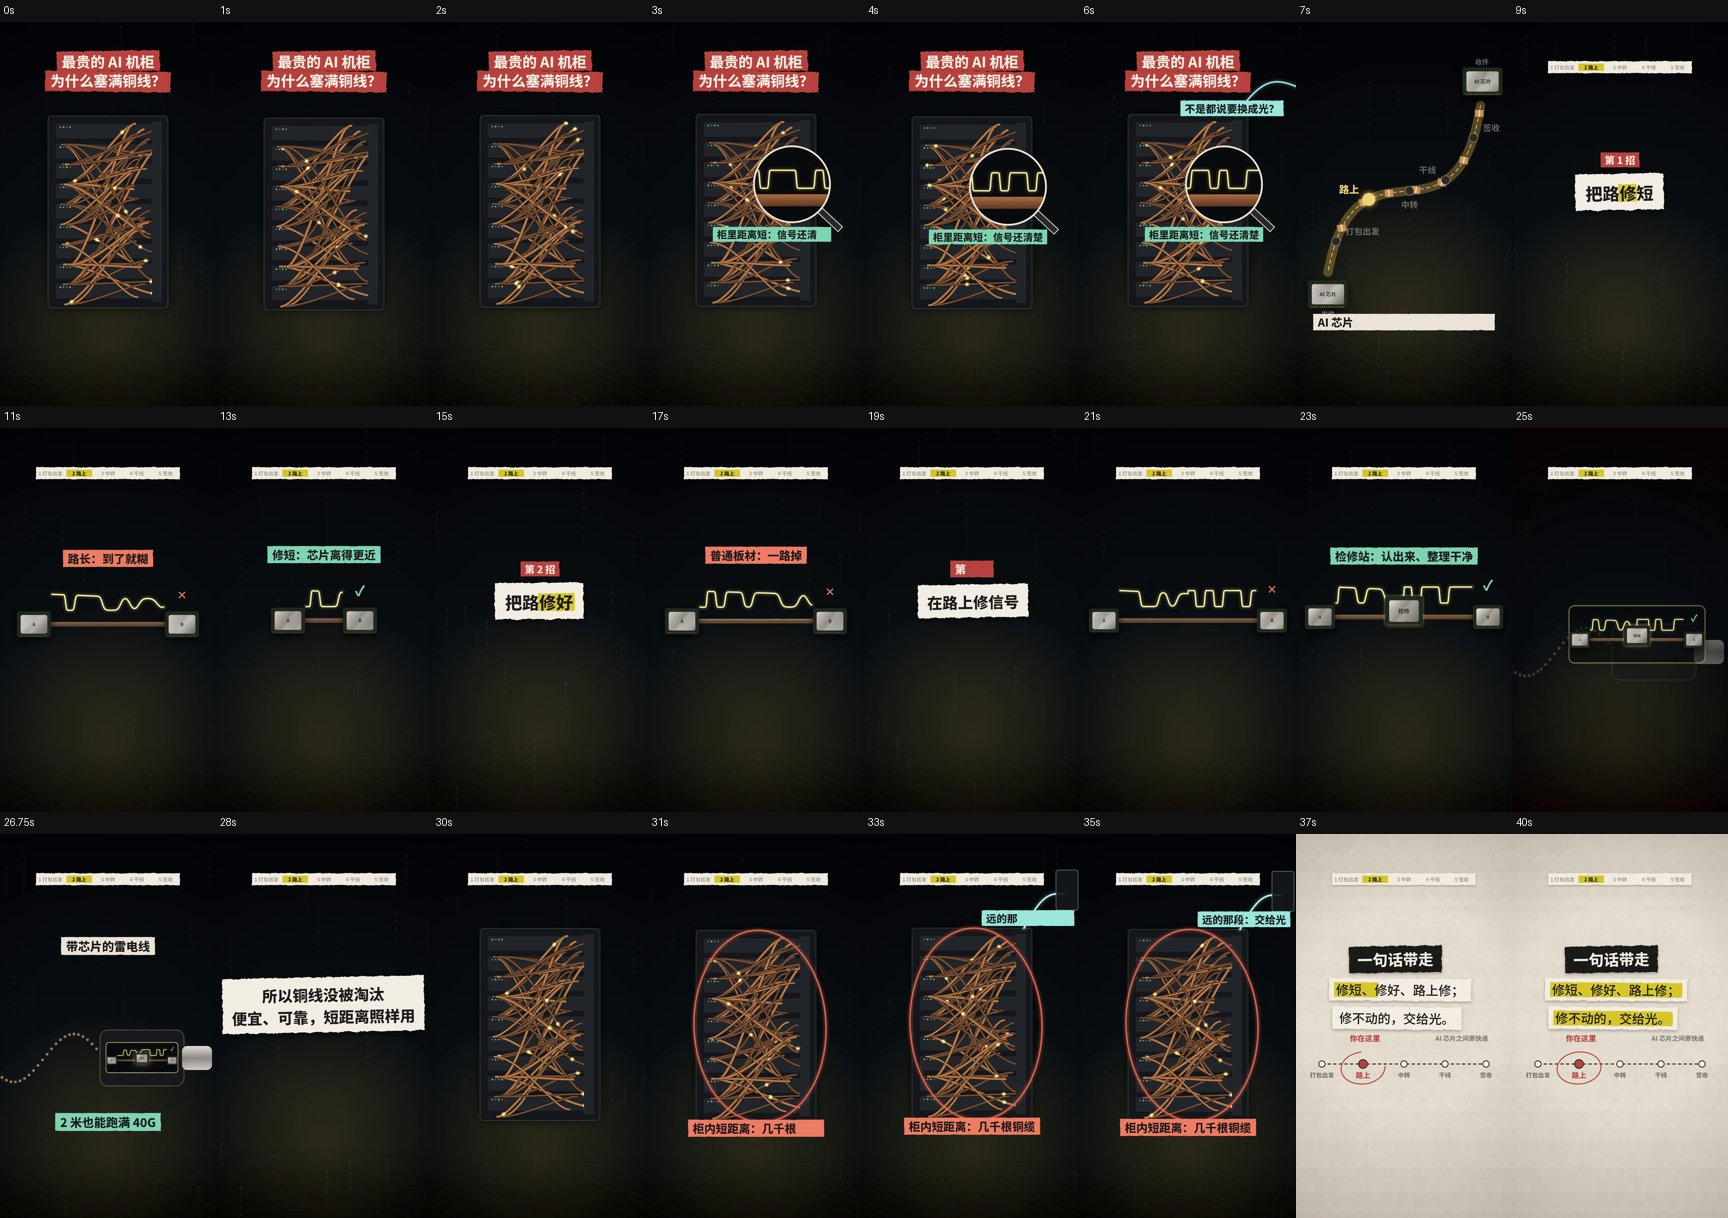
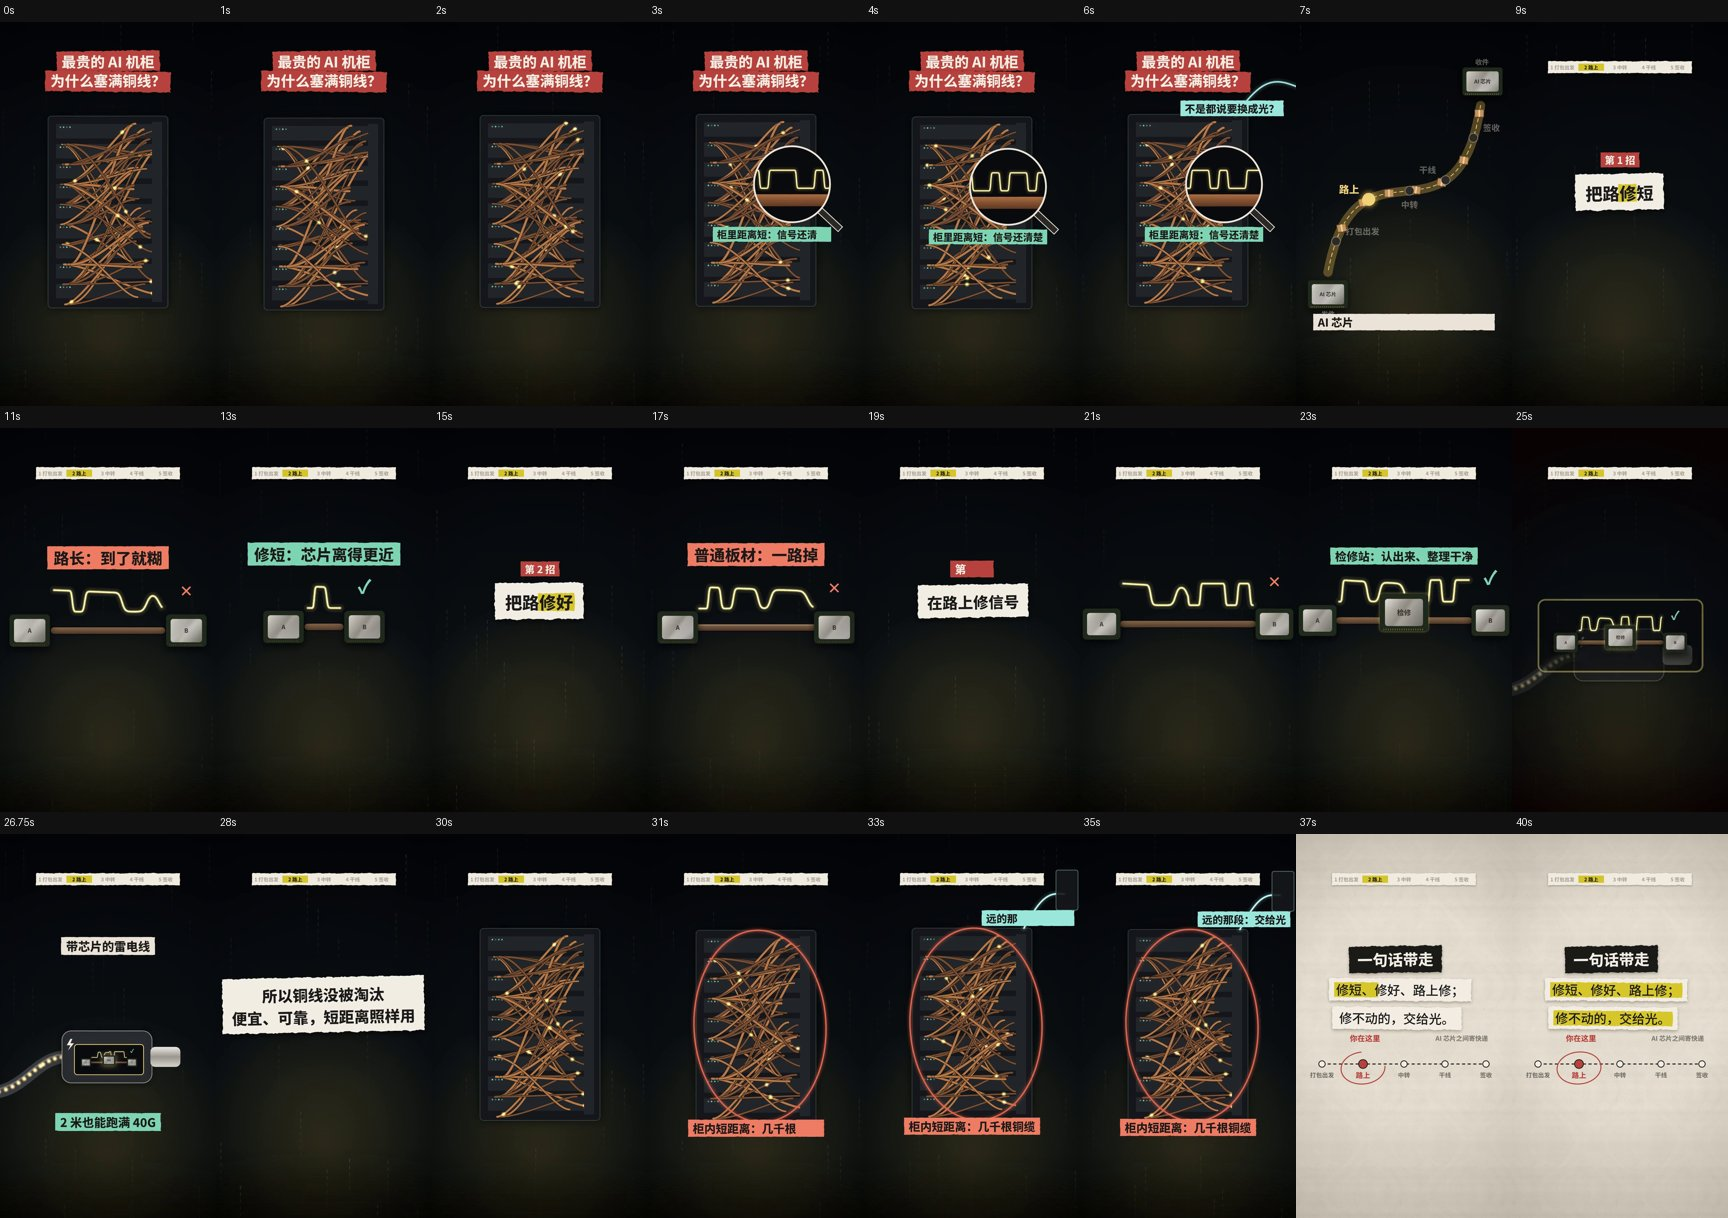
光互连03 抖音无旁白第 2 条：演示放大、插头揭晓重画
Claude-Session: https://claude.ai/code/session_017cWy2C9x8as99QvCXXTnLk

diff --git a/episodes/guanghulian/03-copper-blur/抖音版/代码工程/split/g2.js b/episodes/guanghulian/03-copper-blur/抖音版/代码工程/split/g2.js
@@ -60,42 +60,46 @@ const road = (c, t, xa, xb, y, { loss = 1, mat = 0, at = 0, mid = null } = {}) =
     am = x => { if (mid != null && x > mid) return 1; return 1 - 0.45 * loss * clamp((x - xa) / 900); };
   G.wave(c, xa, xb, x => y - 80 * am(x) * G.level(x, F, 46, sg(x)), { col: GOLD, lw: 6 });
   return sg(xb) < 10; };
-const scene = (c, t, sh, draw) => { const k = T.cam({ hy: 1600, camH: 300 }); T.bg(c, k, { grid: 0.45, scroll: t * 140 }); T.streams(c, t, { a: 0.08, seed: 29 }); c.save(); c.translate(0, G.floatY(t, 2)); draw(); c.restore(); };
+const ZOOM = 1.35;   // 演示放大一点，手机上看得清
+const scene = (c, t, sh, draw) => { const k = T.cam({ hy: 1600, camH: 300 }); T.bg(c, k, { grid: 0.45, scroll: t * 140 }); T.streams(c, t, { a: 0.08, seed: 29 }); c.save(); c.translate(540, 880 + G.floatY(t, 2)); c.scale(ZOOM, ZOOM); c.translate(-540, -880); draw(); c.restore(); };
 // ① 修短：两颗芯片隔得远 → 滑到一起
 SP.MECH.short = (c, t, sh) => scene(c, t, sh, () => {
-  const s = ease(t, C.slide, C.slide + 0.8, 'c'), xa = lerp(170, 360, s), xb = lerp(910, 720, s), y = 900;
+  const s = ease(t, C.slide, C.slide + 0.8, 'c'), xa = lerp(250, 390, s), xb = lerp(830, 690, s), y = 900;
   const ok = road(c, t, xa + 90, xb - 90, y, { loss: 1, at: sh.t0 });
-  T.chip(c, xa, y + 70, 170, 130, { label: 'A', t }); T.chip(c, xb, y + 70, 170, 130, { label: 'B', t: t + 0.4 });
+  T.chip(c, xa, y + 70, 150, 120, { label: 'A', t }); T.chip(c, xb, y + 70, 150, 120, { label: 'B', t: t + 0.4 });
   G.mark(c, ok, xb, y - 80, 70);
-  tag(c, s < 0.5 ? '路长：到了就糊' : '修短：芯片离得更近', 540, 640, { size: 46, bg: s < 0.5 ? COL.coral : COL.mint, fg: COL.ink, t, at: s < 0.5 ? sh.t0 : C.slide });
+  tag(c, s < 0.5 ? '路长：到了就糊' : '修短：芯片离得更近', 540, 700, { size: 46, bg: s < 0.5 ? COL.coral : COL.mint, fg: COL.ink, t, at: s < 0.5 ? sh.t0 : C.slide });
 });
 // ② 修好：同一条路，换成损耗更低的材料
 SP.MECH.better = (c, t, sh) => scene(c, t, sh, () => {
   const m = ease(t, C.swap, C.swap + 0.6), y = 900;
-  const ok = road(c, t, 260, 820, y, { loss: lerp(1, 0.18, m), mat: m, at: sh.t0 });
-  T.chip(c, 170, y + 70, 170, 130, { label: 'A', t }); T.chip(c, 910, y + 70, 170, 130, { label: 'B', t: t + 0.4 });
-  G.mark(c, ok, 910, y - 80, 70);
-  tag(c, m < 0.5 ? '普通板材：一路掉' : '损耗更低的板材、铜缆', 540, 640, { size: 46, bg: m < 0.5 ? COL.coral : COL.mint, fg: COL.ink, t, at: m < 0.5 ? sh.t0 : C.swap });
+  const ok = road(c, t, 330, 750, y, { loss: lerp(1.3, 0.2, m), mat: m, at: sh.t0 });
+  T.chip(c, 250, y + 70, 150, 120, { label: 'A', t }); T.chip(c, 830, y + 70, 150, 120, { label: 'B', t: t + 0.4 });
+  G.mark(c, ok, 830, y - 80, 70);
+  tag(c, m < 0.5 ? '普通板材：一路掉' : '损耗更低的板材、铜缆', 540, 700, { size: 46, bg: m < 0.5 ? COL.coral : COL.mint, fg: COL.ink, t, at: m < 0.5 ? sh.t0 : C.swap });
 });
 // ③ 路上修信号：中途立一个「检修」芯片；镜头拉远——它原来在一根雷电线的插头里（高潮，子弹时间）
 SP.MECH.repair = (c, t, sh) => {
   const z = ease(t, C.reveal, C.reveal + 1.0, 'c'), bt = C.reveal != null && t > C.reveal - 0.5 && t < C.reveal + 1.2 ? Math.min(seg(t, C.reveal - 0.5, C.reveal - 0.25), 1 - seg(t, C.reveal + 0.9, C.reveal + 1.2)) : 0;
   const k = T.cam({ hy: 1600, camH: 300 }); T.bg(c, k, { grid: 0.45, scroll: t * 140 }); T.streams(c, t, { a: 0.08, seed: 31 });
   const fy = G.floatY(t, 3);
-  // 拉远后的雷电线和插头（在下层，跟着放大缩小）
-  if (z > 0) { c.save(); c.globalAlpha = z; const P = []; for (let i = 0; i <= 80; i++) { const u = i / 80; P.push([lerp(-80, 520, u), 1120 + 120 * Math.sin(Math.PI * 2 * u)]); }
-    c.strokeStyle = '#141516'; c.lineWidth = 46; c.lineCap = 'round'; c.beginPath(); P.forEach((p, i) => i ? c.lineTo(p[0], p[1]) : c.moveTo(p[0], p[1])); c.stroke();
-    c.save(); c.globalCompositeOperation = 'lighter'; for (let d = 0; d < 80; d += 3) { const p = P[(Math.floor(d + t * 30)) % 80]; c.fillStyle = 'rgba(245,215,126,.5)'; c.beginPath(); c.arc(p[0], p[1], 7, 0, 7); c.fill(); } c.restore();
-    c.fillStyle = '#1a1b1c'; c.strokeStyle = 'rgba(236,230,218,.4)'; c.lineWidth = 3; c.beginPath(); c.roundRect(500, 980, 420, 280, 40); c.fill(); c.stroke();
-    const gg = c.createLinearGradient(0, 1060, 0, 1180); gg.addColorStop(0, '#e2dfd8'); gg.addColorStop(0.5, '#8d8a84'); gg.addColorStop(1, '#cfccc5'); c.fillStyle = gg; c.beginPath(); c.roundRect(910, 1060, 150, 120, 26); c.fill();
+  // 拉远后：一根雷电线从左边进来，插头在画面中间；检修站那条路缩进插头的窗口里
+  if (z > 0) { c.save(); c.globalAlpha = z; c.translate(0, fy);
+    c.save(); c.lineCap = 'round'; c.strokeStyle = '#3a3d40'; c.lineWidth = 64; c.beginPath(); c.moveTo(-60, 1300); c.bezierCurveTo(120, 1300, 180, 1120, 330, 1120); c.stroke();
+    c.strokeStyle = 'rgba(236,230,218,.25)'; c.lineWidth = 10; c.beginPath(); c.moveTo(-60, 1286); c.bezierCurveTo(120, 1286, 180, 1106, 330, 1106); c.stroke(); c.restore();
+    for (let d = 0; d < 1; d += 0.08) { const u = (d + t * 0.4) % 1, m = 1 - u, x = m * m * m * -60 + 3 * m * m * u * 120 + 3 * m * u * u * 180 + u * u * u * 330, y = m * m * m * 1300 + 3 * m * m * u * 1300 + 3 * m * u * u * 1120 + u * u * u * 1120;
+      c.save(); c.globalCompositeOperation = 'lighter'; const g = c.createRadialGradient(x, y, 0, x, y, 18); g.addColorStop(0, 'rgba(255,250,235,.95)'); g.addColorStop(0.4, 'rgba(226,181,74,.8)'); g.addColorStop(1, 'rgba(0,0,0,0)'); c.fillStyle = g; c.beginPath(); c.arc(x, y, 18, 0, 7); c.fill(); c.restore(); }
+    c.save(); c.shadowColor = 'rgba(0,0,0,.6)'; c.shadowBlur = 30; c.fillStyle = '#2a2d30'; c.strokeStyle = 'rgba(236,230,218,.55)'; c.lineWidth = 4; c.beginPath(); c.roundRect(310, 990, 450, 260, 46); c.fill(); c.stroke(); c.restore();
+    const gg = c.createLinearGradient(0, 1070, 0, 1170); gg.addColorStop(0, '#eceae4'); gg.addColorStop(0.5, '#9a978f'); gg.addColorStop(1, '#d8d5ce'); c.fillStyle = gg; c.beginPath(); c.roundRect(752, 1070, 150, 100, 24); c.fill();
+    c.fillStyle = '#f3efe5'; c.beginPath(); c.moveTo(352, 1030); c.lineTo(334, 1062); c.lineTo(352, 1062); c.lineTo(340, 1088); c.lineTo(370, 1052); c.lineTo(352, 1052); c.lineTo(362, 1030); c.closePath(); c.fill();
     c.restore(); }
   // 路 + 检修站（拉远时缩进插头的窗口里）
-  c.save(); c.translate(0, fy); const s = lerp(1, 0.36, z), cx = lerp(540, 710, z), cy = lerp(900, 1120, z); c.translate(cx, cy); c.scale(s, s); c.translate(-540, -900);
-  if (z > 0) { c.save(); c.globalAlpha = z; c.fillStyle = 'rgba(8,11,12,.85)'; c.beginPath(); c.roundRect(40, 700, 1000, 420, 40); c.fill(); c.strokeStyle = '#f5d77e'; c.lineWidth = 8; c.stroke(); c.restore(); }
-  const y = 880, ok = road(c, t, 200, 880, y, { loss: 1.1, at: sh.t0, mid: 540 });
-  T.chip(c, 120, y + 70, 150, 120, { label: 'A', t }); T.chip(c, 960, y + 70, 150, 120, { label: 'B', t: t + 0.4 });
-  if (t >= C.station) { const q = MO.backOut(clamp((MO.step(t, 24) - C.station) / 0.3), 1.8); c.save(); c.translate(540, y + 40); c.scale(q, q); T.chip(c, 0, 0, 190, 150, { label: '检修', t, glow: 0.6 + 0.4 * Math.sin(t * 4) }); c.restore(); }
-  G.mark(c, ok && t >= C.station, 960, y - 90, 70); c.restore();
+  c.save(); c.translate(0, fy); const s = lerp(ZOOM, 0.36, z), cx = lerp(540, 545, z), cy = lerp(900, 1130, z); c.translate(cx, cy); c.scale(s, s); c.translate(-540, -900);
+  if (z > 0) { c.save(); c.globalAlpha = z; c.fillStyle = 'rgba(8,11,12,.9)'; c.beginPath(); c.roundRect(60, 700, 960, 420, 40); c.fill(); c.strokeStyle = '#f5d77e'; c.lineWidth = 10; c.stroke(); c.restore(); }
+  const y = 880, ok = road(c, t, 300, 780, y, { loss: 1.4, at: sh.t0, mid: 540 });
+  T.chip(c, 220, y + 70, 140, 115, { label: 'A', t }); T.chip(c, 860, y + 70, 140, 115, { label: 'B', t: t + 0.4 });
+  if (t >= C.station) { const q = MO.backOut(clamp((MO.step(t, 24) - C.station) / 0.3), 1.8); c.save(); c.translate(540, y + 40); c.scale(q, q); T.chip(c, 0, 0, 180, 140, { label: '检修', t, glow: 0.6 + 0.4 * Math.sin(t * 4) }); c.restore(); }
+  G.mark(c, ok && t >= C.station, 860, y - 90, 70); c.restore();
   if (t >= C.station && z < 0.5) tag(c, '检修站：认出来、整理干净', 540, 640, { size: 46, bg: COL.mint, fg: COL.ink, t, at: C.station });
   if (z > 0.6) { tag(c, '带芯片的雷电线', 540, 560, { size: 48, bg: COL.cream, fg: COL.ink, t, at: C.reveal + 0.6 }); tag(c, '2 米也能跑满 40G', 540, 1440, { size: 48, bg: COL.mint, fg: COL.ink, t, at: C.reveal + 1.0 }); }
   if (bt > 0) { c.save(); const vg = c.createRadialGradient(W / 2, 1000, 200, W / 2, 1000, 1200); vg.addColorStop(0, 'rgba(0,0,0,0)'); vg.addColorStop(1, `rgba(20,0,0,${0.5 * bt})`); c.fillStyle = vg; c.fillRect(0, 0, W, H); c.restore(); }
